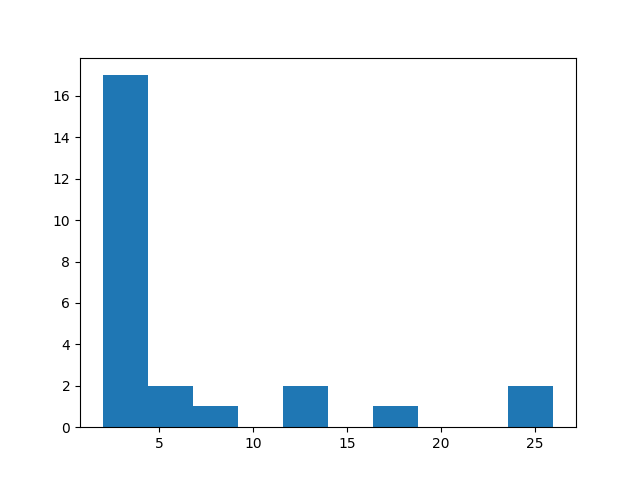
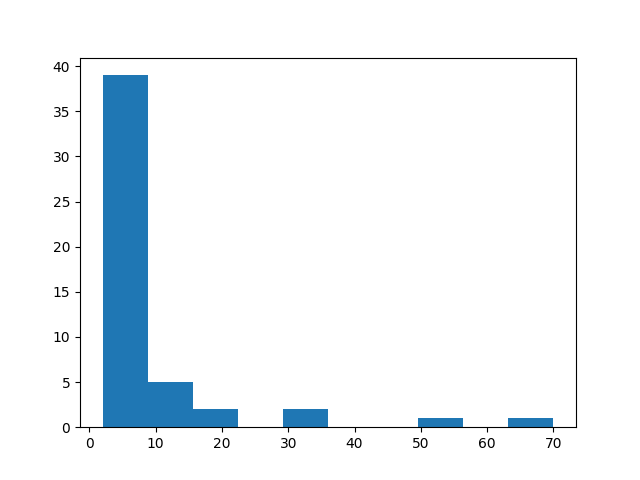
Made seperate program for bigger distances, also bugfixes

diff --git a/matrix.py b/matrix.py
@@ -6,25 +6,22 @@ from random_singlets.ZT_RSS import ZT_Random_Spin
 
 fig = plt.figure()
 
-matrix = ZT_Random_Spin(50,1)
+matrix = ZT_Random_Spin(30,1)
 
 cmap = colors.ListedColormap(['black','white','yellow'])
 bounds=[-matrix.ceiling, -0.0000000000001,0.0000000000001, matrix.ceiling]
 norm = colors.BoundaryNorm(bounds, cmap.N)
 ims = []
-dist = []
-i=0
+
 while matrix.end_rg == 0:
     matrix.renormalization()
-    #img = plt.hist(matrix.bond_matrix, interpolation='nearest', cmap=cmap, norm=norm, animated=True)
-    #ims.append([img])
-    dist = np.append(dist, matrix.distance)
+    img = plt.imshow(matrix.bond_matrix, interpolation='nearest', cmap=cmap, norm=norm, animated=True)
+    ims.append([img])
     #plt.pause(1)
 
-histo = plt.hist(dist)
-#ani = animation.ArtistAnimation(fig, ims, interval=5000, blit=True, repeat_delay=10000)
-#histo.savefig('distance.png', img)
-#ani.save('woah.mp4')
+ani = animation.ArtistAnimation(fig, ims, interval=200, blit=True, repeat_delay=10000)
+ani.save('rg.mp4')
+img.figure.savefig('singlet-phase.png')
 plt.show()
 
 

diff --git a/distance.py b/distance.py
@@ -1,0 +1,15 @@
+import numpy as np
+import matplotlib.pyplot as plt
+from random_singlets.ZT_RSS import ZT_Random_Spin
+
+matrix = ZT_Random_Spin(100,1)
+
+dist = []
+
+while matrix.end_rg == 0:
+    matrix.renormalization()
+    dist = np.append(dist, matrix.distance)
+
+plt.hist(dist)
+plt.savefig('distance.png')
+plt.show()

diff --git a/random_singlets/ZT_RSS.py b/random_singlets/ZT_RSS.py
@@ -1,6 +1,5 @@
 import numpy as np
 
-
 class ZT_Random_Spin:
 
     version="v2"
